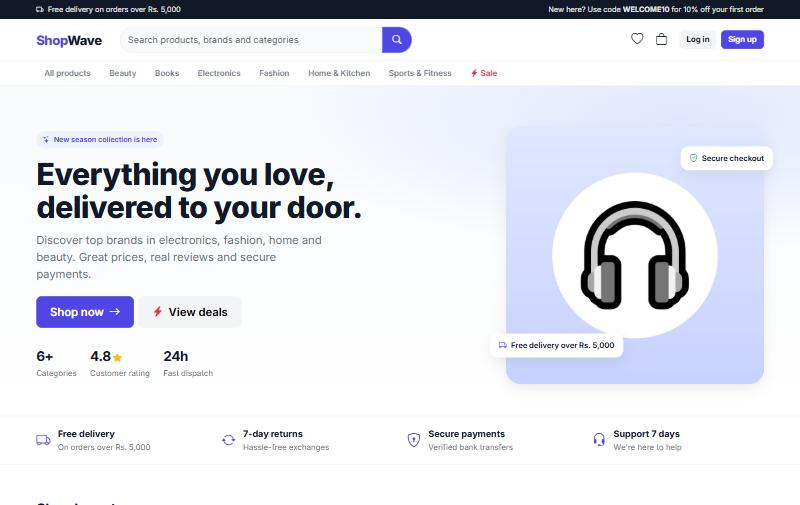
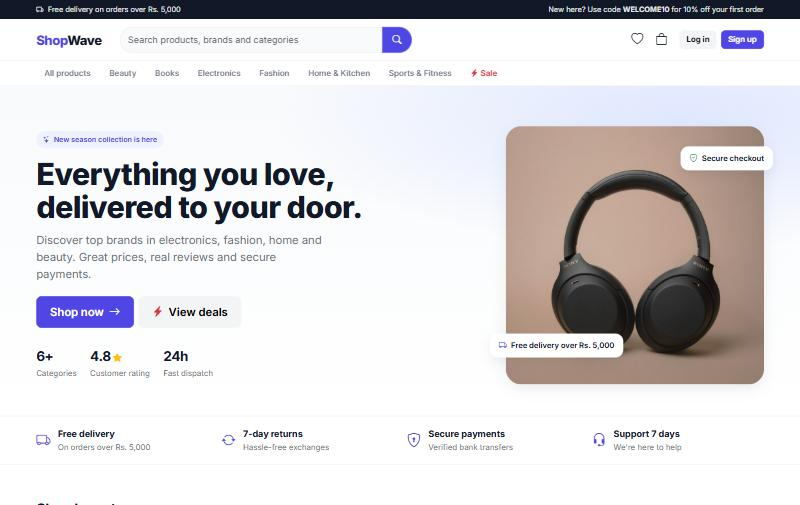
Use real product photos for the demo catalogue
- Add 24 free Unsplash photos (800x800, Unsplash License) in products/demo_images
  with photographer credits in CREDITS.md; no brand logos or real book covers
- seed_demo uses the bundled photo for each product (falls back to a generated
  image) and gains --refresh-images to replace existing demo images
- Refresh README screenshots and mention the photo credits

Changed region(s): [[0.625, 0.2376, 0.9688, 0.7723]]

diff --git a/products/management/commands/seed_demo.py b/products/management/commands/seed_demo.py
@@ -1,7 +1,11 @@
-"""Fill the store with a demo catalogue: categories, products with generated images, reviews and coupons.
+"""Fill the store with a demo catalogue: categories, products with photos, reviews and coupons.
 
-    python manage.py seed_demo          # create or update the demo data
-    python manage.py seed_demo --reset  # delete ALL products and categories first
+    python manage.py seed_demo                   # create or update the demo data
+    python manage.py seed_demo --refresh-images  # replace demo product images with the bundled photos
+    python manage.py seed_demo --reset           # delete ALL products and categories first
+
+Product photos live in products/demo_images/ (Unsplash License, see CREDITS.md there).
+If a photo is missing, a simple generated image is used instead.
 """
 import random
 from decimal import Decimal
@@ -78,6 +82,22 @@ PRODUCTS = [
      'Rules for focused success in a distracted world, by Cal Newport.'),
 ]
 
+DEMO_IMAGE_DIR = Path(__file__).resolve().parents[2] / 'demo_images'
+DEMO_IMAGES = {
+    'AirWave Pro Wireless Headphones': 'headphones', 'Nova X5 Smartphone 128GB': 'phone',
+    'PulseFit Smart Watch': 'watch', 'ThinBook 14 Laptop (i5, 16GB)': 'laptop',
+    'Classic Leather Backpack': 'backpack', 'Urban Runner Sneakers': 'sneakers',
+    'Everyday Cotton T-Shirt (Pack of 3)': 'tshirt', 'Aviator Sunglasses UV400': 'sunglasses',
+    'BrewMaster Coffee Maker': 'coffee', 'Ceramic Non-Stick Cookware Set': 'cookware',
+    'Aroma Scented Candle Trio': 'candle', 'Indoor Potted Plant (Snake Plant)': 'plant',
+    'Glow Vitamin C Serum 30ml': 'serum', 'Signature Eau de Parfum 100ml': 'perfume',
+    'Matte Lipstick Collection': 'lipstick', 'Hydrating Face Mask (Pack of 10)': 'facemask',
+    'ProGrip Yoga Mat 6mm': 'yoga', 'Adjustable Dumbbell Set 20kg': 'dumbbell',
+    'Trail Mountain Bike 27.5"': 'bike', 'Insulated Water Bottle 1L': 'bottle',
+    'Atomic Habits (Paperback)': 'atomic', 'Python Crash Course, 3rd Edition': 'python',
+    'The Psychology of Money': 'money', 'Deep Work (Paperback)': 'deepwork',
+}
+
 REVIEWERS = [('ayesha_k', 'Ayesha'), ('bilal_r', 'Bilal'), ('hina_s', 'Hina'), ('usman_t', 'Usman'),
              ('sara_m', 'Sara'), ('ali_h', 'Ali')]
 COMMENTS = {
@@ -92,6 +112,14 @@ COUPONS = [
     ('SAVE500', Coupon.FIXED, 500, 3000, None),
     ('FLASH20', Coupon.PERCENT, 20, 10000, 100),
 ]
+
+
+def product_image(name, emoji, colours):
+    """The bundled photo for this product, or a generated placeholder if it's missing."""
+    photo = DEMO_IMAGE_DIR / f'{DEMO_IMAGES.get(name, "")}.jpg'
+    if photo.is_file():
+        return ContentFile(photo.read_bytes())
+    return make_image(emoji, colours)
 
 
 def make_image(emoji, colours, size=800):
@@ -127,10 +155,12 @@ def make_image(emoji, colours, size=800):
 
 
 class Command(BaseCommand):
-    help = 'Create a demo catalogue (categories, products with images, reviews and coupon codes).'
+    help = 'Create a demo catalogue (categories, products with photos, reviews and coupon codes).'
 
     def add_arguments(self, parser):
         parser.add_argument('--reset', action='store_true', help='Delete ALL products and categories first')
+        parser.add_argument('--refresh-images', action='store_true',
+                            help='Replace the images of demo products with the bundled photos')
 
     def handle(self, *args, **options):
         random.seed(42)  # same demo data every time
@@ -160,9 +190,11 @@ class Command(BaseCommand):
                 'category': categories[category], 'description': description, 'price': Decimal(price),
                 'sale_price': Decimal(sale) if sale else None, 'stock': stock, 'is_featured': featured,
             })
-            if created or not product.image:
+            if created or not product.image or options['refresh_images']:
+                if product.image:
+                    product.image.delete(save=False)  # remove the old file from media/
                 slug = categories[category].slug + '-' + str(product.pk)
-                product.image.save(f'{slug}.jpg', make_image(emoji, colours[category]), save=True)
+                product.image.save(f'{slug}.jpg', product_image(name, emoji, colours[category]), save=True)
 
             if not product.reviews.exists():
                 for user in random.sample(reviewers, random.randint(2, 5)):

diff --git a/products/demo_images/CREDITS.md b/products/demo_images/CREDITS.md
@@ -1,0 +1,32 @@
+# Demo product photos
+
+All photos are from [Unsplash](https://unsplash.com) and used under the
+[Unsplash License](https://unsplash.com/license) (free to use, including commercially; attribution appreciated).
+They were cropped to 800×800. Thanks to the photographers below.
+
+| File | Used for | Photographer | Source |
+|---|---|---|---|
+| headphones.jpg | AirWave Pro Wireless Headphones | Luke Peterson | https://unsplash.com/photos/lUMj2Zv5HUE |
+| phone.jpg | Nova X5 Smartphone 128GB | Rami Al-zayat | https://unsplash.com/photos/w33-zg-dNL4 |
+| watch.jpg | PulseFit Smart Watch | Simon Daoudi | https://unsplash.com/photos/2wFoa040m8g |
+| laptop.jpg | ThinBook 14 Laptop | Ales Nesetril | https://unsplash.com/photos/Im7lZjxeLhg |
+| backpack.jpg | Classic Leather Backpack | Wiser by the Mile | https://unsplash.com/photos/3o-X8WJOP5E |
+| sneakers.jpg | Urban Runner Sneakers | Mukesh Naik | https://unsplash.com/photos/jVerIoX3y7c |
+| tshirt.jpg | Everyday Cotton T-Shirt (Pack of 3) | Md Salman | https://unsplash.com/photos/tWOz2_EK5EQ |
+| sunglasses.jpg | Aviator Sunglasses UV400 | Jonathan Taylor | https://unsplash.com/photos/hEU7Yyf89C4 |
+| coffee.jpg | BrewMaster Coffee Maker | Nathan Dumlao | https://unsplash.com/photos/xPSBoaJNs2g |
+| cookware.jpg | Ceramic Non-Stick Cookware Set | Cooker King | https://unsplash.com/photos/Mv3JygH8eXQ |
+| candle.jpg | Aroma Scented Candle Trio | Sixteen Miles Out | https://unsplash.com/photos/oDfeFV-Y2v0 |
+| plant.jpg | Indoor Potted Plant (Snake Plant) | Kelly Sikkema | https://unsplash.com/photos/m4kw7twpA6k |
+| serum.jpg | Glow Vitamin C Serum 30ml | Point Normal | https://unsplash.com/photos/GjJZ5HBl2qQ |
+| perfume.jpg | Signature Eau de Parfum 100ml | Fulvio Ciccolo | https://unsplash.com/photos/iDDGJt3veps |
+| lipstick.jpg | Matte Lipstick Collection | Qasim Malick | https://unsplash.com/photos/Yh9FrbN5Bts |
+| facemask.jpg | Hydrating Face Mask (Pack of 10) | Laura Jaeger | https://unsplash.com/photos/gAIHtDi26hM |
+| yoga.jpg | ProGrip Yoga Mat 6mm | Tuaans | https://unsplash.com/photos/YmaOkRjoBVc |
+| dumbbell.jpg | Adjustable Dumbbell Set 20kg | VD Photography | https://unsplash.com/photos/H-qxKCedhcc |
+| bike.jpg | Trail Mountain Bike 27.5" | Daniel Gomez | https://unsplash.com/photos/uMVjnoEDGG0 |
+| bottle.jpg | Insulated Water Bottle 1L | Steinar Engeland | https://unsplash.com/photos/csQEHjxz8VU |
+| atomic.jpg | Atomic Habits (Paperback) | Kelly Sikkema | https://unsplash.com/photos/FxGfjHNrsnI |
+| python.jpg | Python Crash Course, 3rd Edition | Thought Catalog | https://unsplash.com/photos/Q7sGp9MStSY |
+| money.jpg | The Psychology of Money | Quilia | https://unsplash.com/photos/HXjtPt_XRAQ |
+| deepwork.jpg | Deep Work (Paperback) | Gülfer ERGİN | https://unsplash.com/photos/LUGuCtvlk1Q |

diff --git a/README.md b/README.md
@@ -78,7 +78,7 @@ Built by **Saneed Ullah** as a portfolio project after completing the
 | API docs | drf-spectacular (OpenAPI 3, Swagger UI, ReDoc) |
 | Database | SQLite (development) |
 | Frontend | Django Templates, Bootstrap 5.3, Bootstrap Icons, Chart.js, vanilla JavaScript |
-| Images | Pillow (product images, profile pictures, payment proofs, generated demo images) |
+| Images | Pillow (product images, profile pictures, payment proofs); demo photos from Unsplash |
 
 ---
 
@@ -169,9 +169,13 @@ python manage.py migrate
 python manage.py createsuperuser
 python manage.py seed_demo
 ```
-`seed_demo` creates 6 categories, 24 products with generated images, sample reviews and three coupon codes:
+`seed_demo` creates 6 categories, 24 products with real product photos, sample reviews and three coupon codes:
 **WELCOME10** (10% off), **SAVE500** (Rs. 500 off orders over Rs. 3,000) and **FLASH20** (20% off orders over Rs. 10,000).
-Run it again any time; it never duplicates data. `python manage.py seed_demo --reset` deletes all products first.
+Run it again any time; it never duplicates data. `python manage.py seed_demo --refresh-images` re-applies the photos,
+and `python manage.py seed_demo --reset` deletes all products first.
+
+Demo photos are from [Unsplash](https://unsplash.com) (Unsplash License); photographers are credited in
+[`products/demo_images/CREDITS.md`](products/demo_images/CREDITS.md).
 
 ### 6. Run the server
 ```bash
